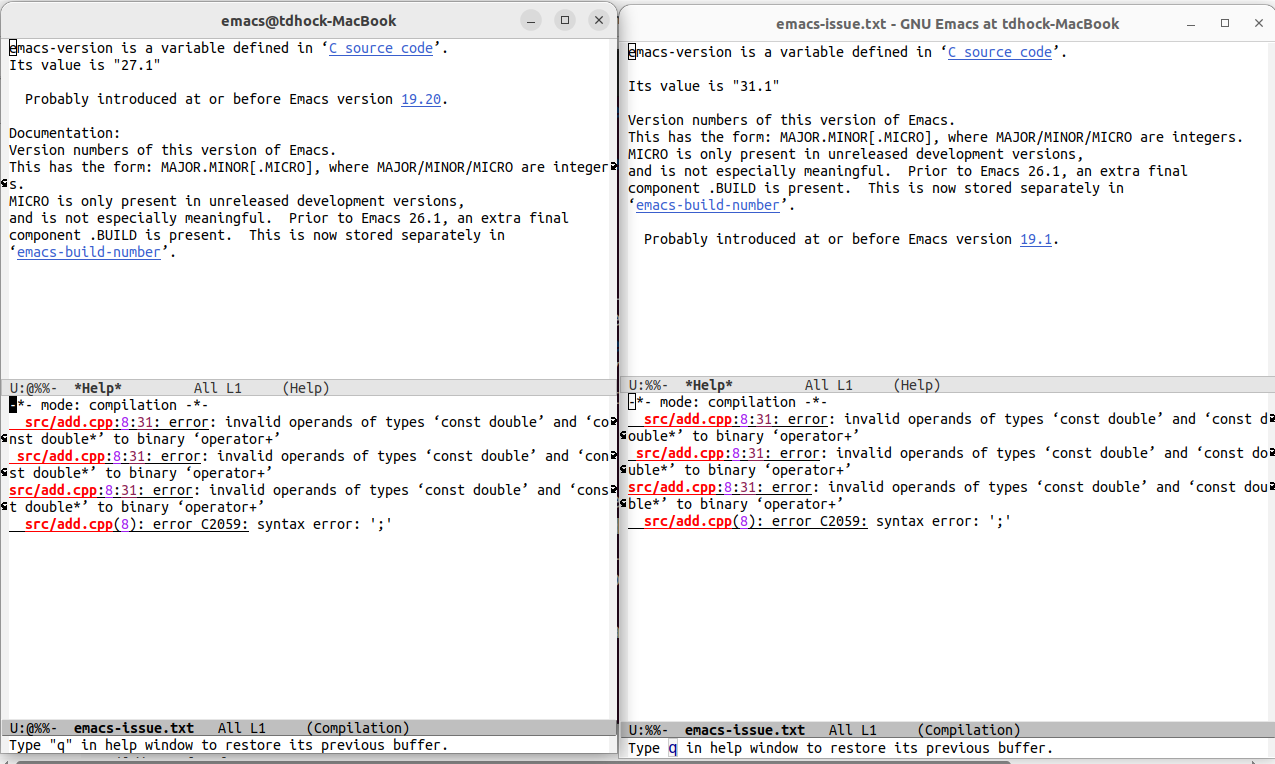
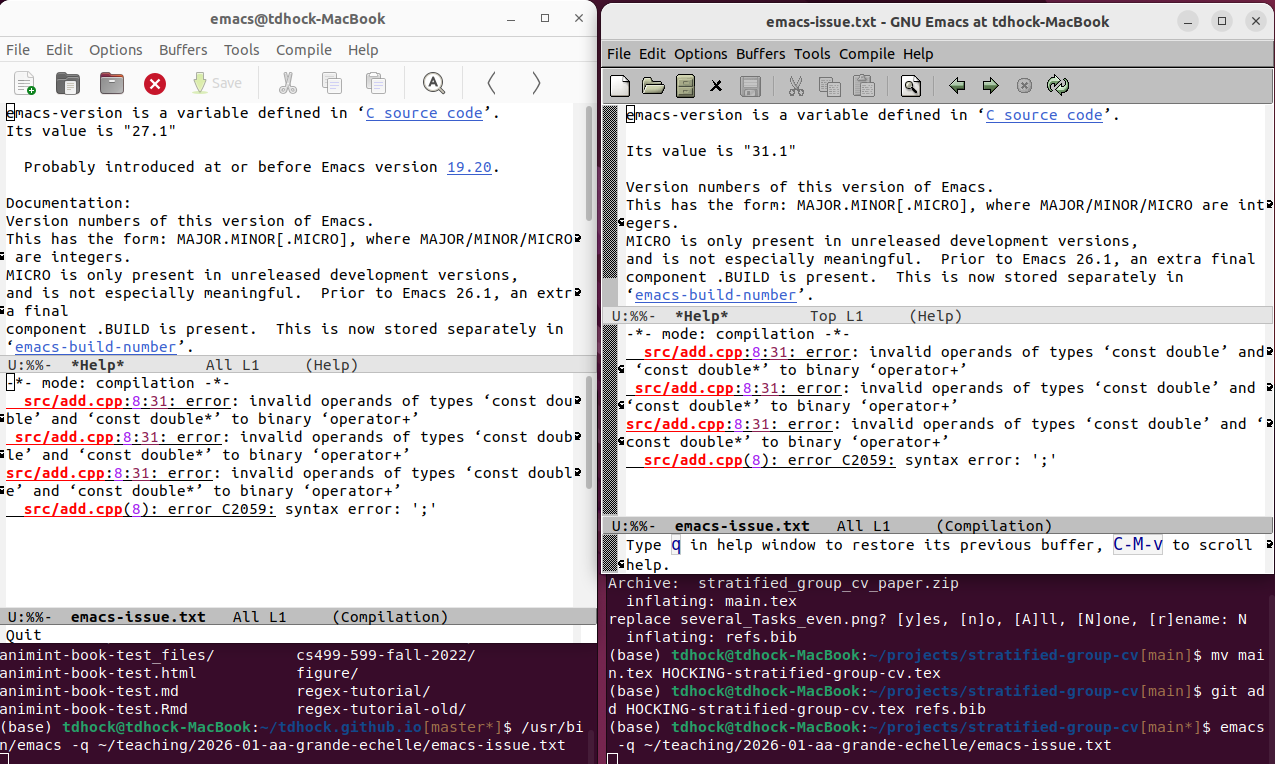
compile-apt-gnutls

diff --git a/_posts/2026-03-24-emacs-compile.md b/_posts/2026-03-24-emacs-compile.md
@@ -1419,3 +1419,107 @@ make install
 Above we see Emacs 29.3 (bundled in Ubuntu Noble 24.04) and Emacs 31.1 (compiled from source released Aug 2026) running on my work laptop.
 Left/old shows incorrect highlighting, whereas right/new is correct, thanks to my patch!
 
+The configure above results in emacs without download capabilities on my old MacBook (package-install does not work).
+
+```
+(base) tdhock@tdhock-MacBook:~/src/emacs-31.1$ ./configure --with-gif=ifavailable --with-gnutls=1 --prefix=$HOME
+checking for xcrun... no
+…
+checking for gcc_jit_context_acquire in -lgccjit... no
+configure: WARNING: Elisp native compiler can't be enabled as libgccjit was not
+found.
+Please try installing libgccjit or a similar package if you want to have it
+enabled.
+checking for libgccjit.h... no
+configure: WARNING: Elisp native compiler can't be enabled as libgccjit header files
+were not found.
+Please try installing libgccjit-dev or a similar package if you want to have it
+enabled.
+.
+configure: error: The following required libraries were not found:
+     gnutls
+Maybe some development libraries/packages are missing?
+To build anyway, give:
+     --with-gnutls=ifavailable
+as options to configure.
+
+(base) tdhock@tdhock-MacBook:~/src/emacs-31.1$  aptitude search gnutls-dev
+v   gnutls-dev                      -                           
+…
+
+(base) tdhock@tdhock-MacBook:~/src/emacs-31.1$  aptitude search libgccjit
+…
+p   libgccjit-12-dev                - compilation à la volée de GCC — fichiers d
+
+(base) tdhock@tdhock-MacBook:~/src/emacs-31.1$ gcc --version
+gcc (GCC) 12.3.0
+```
+
+So we configure via
+
+```
+sudo aptitude install libgccjit-12-dev gnutls-dev 
+CC=/usr/bin/gcc ./configure --with-gif=ifavailable --with-gnutls=1 --prefix=$HOME
+make
+make install
+```
+
+Above was still not sufficient for libgccjit, see below.
+
+```
+(base) tdhock@tdhock-MacBook:~/src/emacs-31.1$ ./configure --with-gif=ifavailable --with-gnutls=1 --prefix=$HOME
+checking for xcrun... no
+…
+checking for gcc_jit_context_acquire in -lgccjit... no
+configure: WARNING: Elisp native compiler can't be enabled as libgccjit was not
+found.
+Please try installing libgccjit or a similar package if you want to have it
+enabled.
+checking for libgccjit.h... no
+configure: WARNING: Elisp native compiler can't be enabled as libgccjit header files
+were not found.
+Please try installing libgccjit-dev or a similar package if you want to have it
+enabled.
+…
+configure: WARNING: This configuration installs a 'movemail' program
+that does not retrieve POP3 email.  By default, Emacs 25 and earlier
+installed a 'movemail' program that retrieved POP3 email via only
+insecure channels, a practice that is no longer recommended but that
+you can continue to support by using './configure --with-pop'.
+configure: You might want to install GNU Mailutils
+<https://mailutils.org> and use './configure --with-mailutils'.
+```
+
+why? Maybe not the right gcc?
+
+```
+(base) tdhock@tdhock-MacBook:~/src/emacs-31.1$ which gcc
+/home/tdhock/bin/gcc
+(base) tdhock@tdhock-MacBook:~/src/emacs-31.1$ /usr/bin/gcc --version
+gcc (Ubuntu 11.4.0-1ubuntu1~22.04.3) 11.4.0
+```
+
+Above we see that gcc-12 we saw earlier is under /home, whereas /usr/bin/gcc is version 11, so we install libgccjit-11-dev and tell configure to use that gcc.
+
+```
+(base) tdhock@tdhock-MacBook:~/src/emacs-31.1$  aptitude search libgccjit
+p   libgccjit-10-dev                - compilation à la volée de GCC — fichiers d
+p   libgccjit-10-dev:i386           - compilation à la volée de GCC — fichiers d
+p   libgccjit-10-doc                - compilation à la volée de GCC — documentat
+p   libgccjit-11-dev                - compilation à la volée de GCC — fichiers d
+…
+```
+
+So below seems to work:
+
+```
+sudo aptitude install libgccjit-11-dev gnutls-dev mailutils
+CC=/usr/bin/gcc ./configure --with-gif=ifavailable --with-gnutls=1 --prefix=$HOME
+make
+make install
+```
+
+![emacs 27 vs 31](/assets/img/2026-03-24-emacs-compile/emacs-27-31.png)
+
+Above we see Emacs 27.1 (bundled in Ubuntu Jammy 22.04) and Emacs 31.1 (compiled from source released Aug 2026) running on my old ~2010 MacBook.
+Both left/old and right/new show correct highlighting, which indicates that the issue was a regression introduced some time between Emacs versions 27.1 and 29.3, and that my patch fixed this regression.
